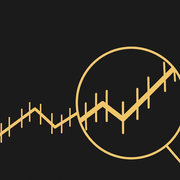
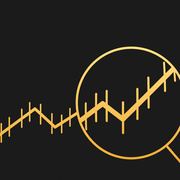
Stock Research PWA — live-data scorecards, value screen, EPS cliff check

diff --git a/sw.js b/sw.js
@@ -2,7 +2,7 @@
  * like a native app. Live data requests (cross-origin) always go to
  * the network; only same-origin shell files are cached.
  * Bump CACHE when shipping changes so clients fetch the new version. */
-var CACHE = 'stock-research-20261026002959';
+var CACHE = 'stock-research-20261026004112';
 var FILES = [
   './',
   './index.html',
